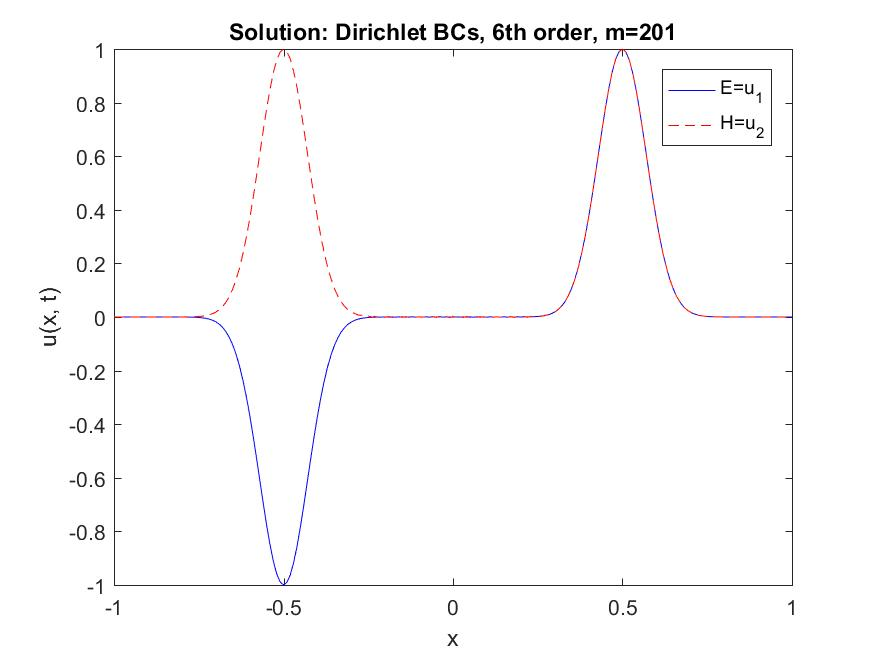
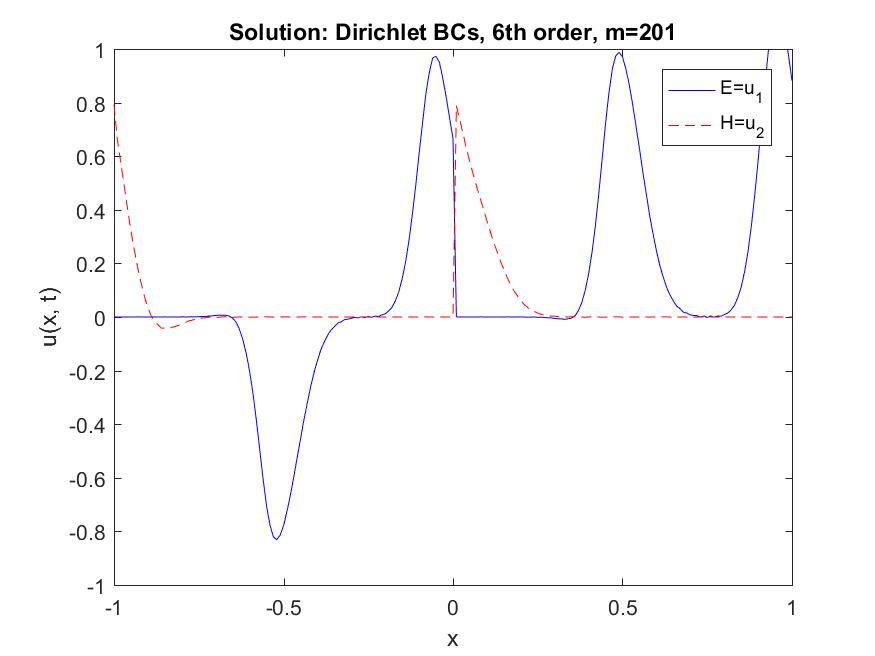
fdm interface simulation sorta works but incorrect

diff --git a/FDM_Assign1/Code/RunPart2.m b/FDM_Assign1/Code/RunPart2.m
@@ -2,44 +2,21 @@ close all;
 clear all;
 
 % Model definition: Cu_t  = Au_x
-permittivity = 1;
+permittivity1 = 1.4142;
+permittivity2 = 0.7071;
 permeability = 1;
 
 A = [0 1; 1 0];
-C = [permittivity 0; 0 permeability];
+C1 = [permittivity1 0; 0 permeability];
+C2 = [permittivity2 0; 0 permeability];
 
 
 gridDim = 201;
 
-%% Eigenvalues DBC
-M = MakeAdvanceMatrix(C, A, gridDim, @MakeSBP2Operators, @MakeBoundariesDBC);
-eigM = eig(M);
-subplot(1,2,1)
-plot(real(eigM), imag(eigM), '.')
-xlabel('Re')
-ylabel('Im')
-title('Eigenvalues, DBC')
-xlim([-0.5,0])
-subplot(1,2,2)
-plot(real(eigM), imag(eigM), '.')
-xlabel('Re')
-ylabel('Im')
-title('Eigenvalues, DBC')
-print('FDM_Ass1_DBC_eigenvalues2','-djpeg')
-
-%% Eigenvalues CBC
-M = MakeAdvanceMatrix(C, A, gridDim, @MakeSBP2Operators, @MakeBoundariesCBC);
-eigM = eig(M);
-plot(real(eigM), imag(eigM), '.')
-xlabel('Re')
-ylabel('Im')
-title('Eigenvalues, CBC')
-print('FDM_Ass1_CBC_eigenvalues2','-djpeg')
-
 %% Calculate convergence rate
-q2 = CalculateConvergence(C, A, @MakeSBP2Operators, @MakeBoundariesDBC)
-q4 = CalculateConvergence(C, A, @MakeSBP4Operators, @MakeBoundariesDBC)
-q6 = CalculateConvergence(C, A, @MakeSBP6Operators, @MakeBoundariesDBC)
+%q2 = CalculateConvergence(C, A, @MakeSBP2Operators, @MakeBoundariesDBC)
+%q4 = CalculateConvergence(C, A, @MakeSBP4Operators, @MakeBoundariesDBC)
+%q6 = CalculateConvergence(C, A, @MakeSBP6Operators, @MakeBoundariesDBC)
 
 %% Plot results for SBP6
 gridDim = 201;
@@ -51,7 +28,8 @@ x_l = -1;
 x_r = 1;
 x = linspace(x_l, x_r, gridDim)';
 
-v = RunSimulation(C, A, gridDim, deltaT, endT, x_l, x_r, @MakeSBP6Operators, @MakeBoundariesDBC);
+[vl, vr] = RunSimulationInterface(C1, C2, A, gridDim, deltaT, endT, x_l, x_r, @MakeSBP6Operators, @MakeBoundariesDBC);
+v = [vl; vr];
 figure;
 plot(x, v(1:gridDim), 'b', x, v(gridDim+1:end), '--r');
 ylim([-1, 1]);

diff --git a/FDM_Assign1/Code/RunSimulationInterface.m b/FDM_Assign1/Code/RunSimulationInterface.m
@@ -1,20 +1,31 @@
-function [u, v] = RunSimulationInterface(C, A, gridDim, deltaT, endT, x_l, x_r, MakeSBPOperators, MakeBoundariesDBC)
+function [u, v] = RunSimulationInterface(C1, C2, A, gridDim, deltaT, endT, x_l, x_r, MakeSBPOperators, MakeBoundariesDBC)
     rr = 0.1;
     x = linspace(x_l, x_r, gridDim)';
     [u10, u20] = InitialData(x, rr);
-    u = [u10; u20];
-    v = zeros(size(u));
+    
+    gridDimL = ceil(gridDim/2);
+    gridDimR = gridDim - gridDimL;
 
-    MLeft = MakeAdvanceMatrixLeft(C, A, gridDim, MakeSBPOperators, MakeBoundariesDBC);
-    MRight = MakeAdvanceMatrixRight(C, A, gridDim, MakeSBPOperators, MakeBoundariesDBC);
-    [ItLeft, ItRight] = MakeInterfaceBoundaries(A, MakeSBPOperators);
+    u = [u10(1:gridDimL); u20(1:gridDimL)];
+    v = [u10((gridDimL+1):gridDim); u20((gridDimL+1):gridDim)];
+
+    MLeft = MakeAdvanceMatrixLeft(C1, A, gridDimL, MakeSBPOperators, MakeBoundariesDBC);
+    MRight = MakeAdvanceMatrixRight(C2, A, gridDimR, MakeSBPOperators, MakeBoundariesDBC);
+    [ItLeft, ItRight] = MakeInterfaceBoundaries(A, gridDimL, gridDimR, MakeSBPOperators);
 
     % Do iterations
     for i=1:ceil(endT/deltaT)
-        
-        AdvanceLeft = @(t, u) (M + ItLeft*1)*u;
-        AdvanceRight = @(t, v) (M + ItRight*1)*v;
+        ivLeft = [u(gridDimL); u(2*gridDimL)] - [v(1); v(gridDimR+1)];
+        ivRight = -ivLeft;
+        AdvanceLeft = @(t, u) MLeft*u + ItLeft*ivLeft;
+        AdvanceRight = @(t, v) MRight*v + ItRight*ivRight;
         u = RungeKutta4Step(AdvanceLeft, i*deltaT, u, deltaT);
         v = RungeKutta4Step(AdvanceRight, i*deltaT, v, deltaT);
+
+        uv = [u; v];
+        figure(9);
+        plot(x, uv(1:gridDim), 'b', x, uv(gridDim+1:end), '--r');
+        ylim([-1, 1]);
+        drawnow;
     end
 end

diff --git a/FDM_Assign1/Code/MakeInterfaceBoundaries.m b/FDM_Assign1/Code/MakeInterfaceBoundaries.m
@@ -1,15 +1,23 @@
-function [IT_L, IT_R] = MakeInterfaceBoundaries(A, MakeSBPOperators)
-    [H, Q, D1, D2, M] = MakeSBPOperators(gridDim);
-
-    e_1=zeros(gridDim,1);e_1(1)=1;
-    e_m=zeros(gridDim,1);e_m(gridDim)=1;
-
+function [IT_L, IT_R] = MakeInterfaceBoundaries(A, gridDimL, gridDimR, MakeSBPOperators)
     sigma_l = 1;
     sigma_r = -1;
 
     [Aplus, Aminus] = SplitMatrix(A);
+    
+    % left side
+    [H, Q, D1, D2, M] = MakeSBPOperators(gridDimL);
+
+    e_1=zeros(gridDimL,1);e_1(1)=1;
+    e_m=zeros(gridDimL,1);e_m(gridDimL)=1;
 
     IT_L = sigma_r*kron(Aplus,inv(H)*e_m);
+
+    % right side
+    [H, Q, D1, D2, M] = MakeSBPOperators(gridDimR);
+
+    e_1=zeros(gridDimR,1);e_1(1)=1;
+    e_m=zeros(gridDimR,1);e_m(gridDimR)=1;
+
     IT_R = sigma_l*kron(Aminus,inv(H)*e_1);
 end
 

diff --git a/FDM_Assign1/Code/MakeAdvanceMatrixLeft.m b/FDM_Assign1/Code/MakeAdvanceMatrixLeft.m
@@ -9,6 +9,6 @@ function MLeft = MakeAdvanceMatrixLeft(C, A, gridDim, MakeSBPOperators, MakeBoun
     
     [SAT, SAT_L, SAT_R] = MakeBoundaries(A, H, e_1, e_m);
     
-    M = inv(Cmod)*(FD+SAT_L);
+    MLeft = inv(Cmod)*(FD+SAT_L);
 end
 

diff --git a/FDM_Assign1/Code/MakeAdvanceMatrixRight.m b/FDM_Assign1/Code/MakeAdvanceMatrixRight.m
@@ -9,5 +9,5 @@ function MRight = MakeAdvanceMatrixRight(C, A, gridDim, MakeSBPOperators, MakeBo
     
     [SAT, SAT_L, SAT_R] = MakeBoundaries(A, H, e_1, e_m);
     
-    M = inv(Cmod)*(FD+SAT_R);
+    MRight = inv(Cmod)*(FD+SAT_R);
 end
